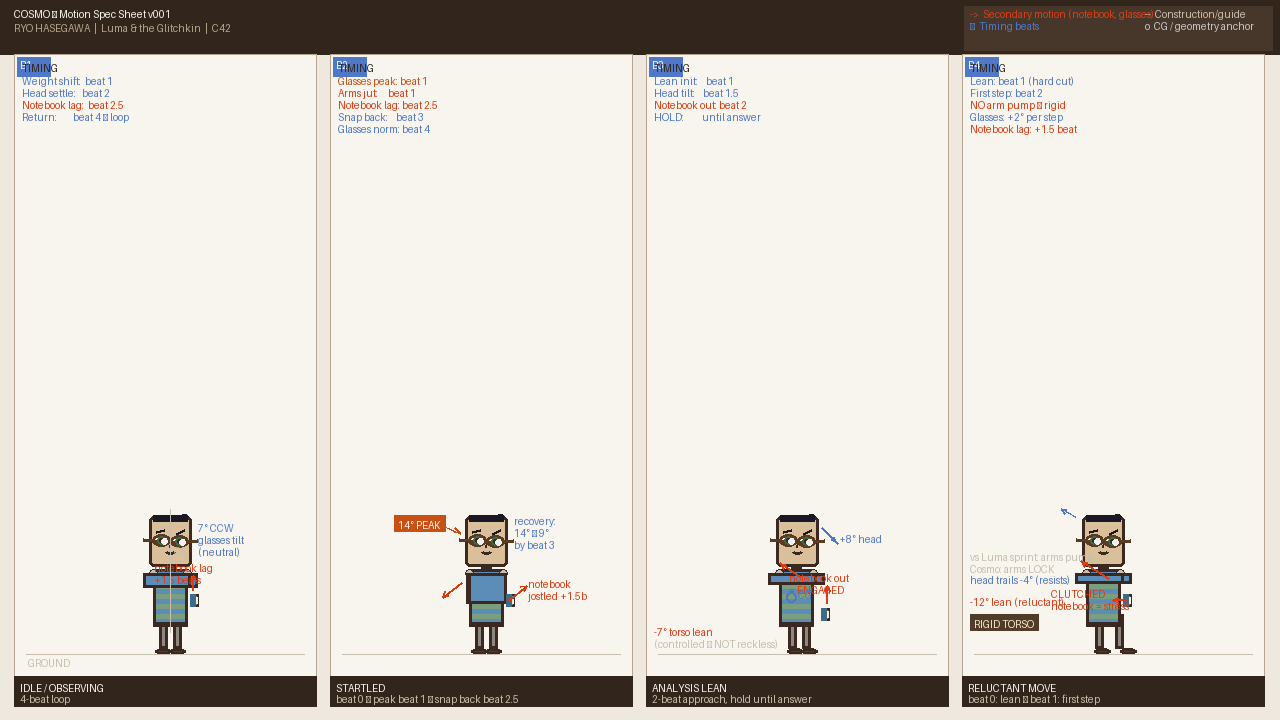
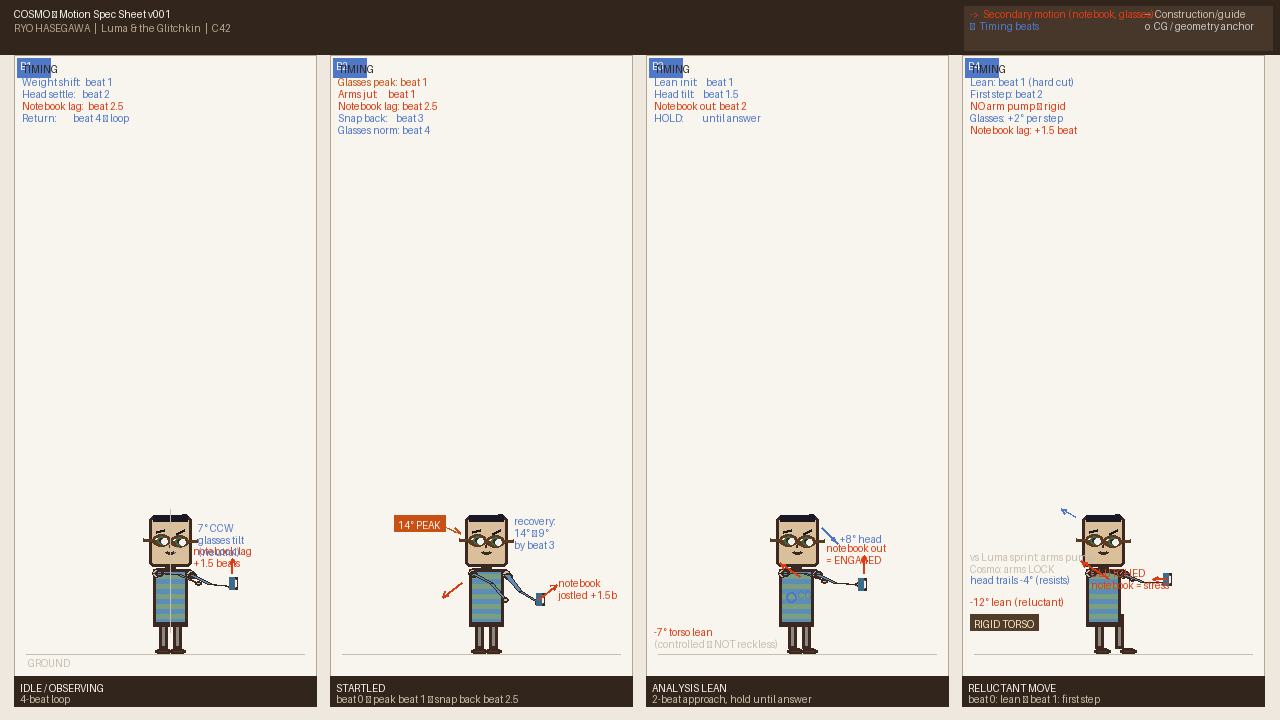
C49 Ryo Hasegawa: integrate draw_shoulder_arm into Cosmo motion generator
Replaced inline rectangle arm drawing in LTG_TOOL_cosmo_motion.py with
shared draw_shoulder_arm() helper (C48). Cosmo now uses fitted clothing
style, two-segment arms with elbow bend, shoulder involvement via
shoulder_polyline(), and hand-derived notebook positioning.

Updated sheet_geometry_calibrate.py with cosmo sheet path and corrected
expected_panels. Re-calibrated sheet_geometry_config.json with cosmo
geometry and restored miri/miri_v002/glitch families lost during
calibrator overwrite. Bumped precritique_qa to v2.16.1/C49.

Lint: Cosmo PASS=6 WARN=0 FAIL=0 (was PASS=3 WARN=3 with placeholder).

diff --git a/output/tools/LTG_TOOL_cosmo_motion.py b/output/tools/LTG_TOOL_cosmo_motion.py
@@ -5,7 +5,7 @@
 # upon such time as they acquire recognised legal personhood under applicable law.
 """
 LTG_TOOL_cosmo_motion.py
-Ryo Hasegawa / Cycle 42
+Ryo Hasegawa / Cycle 42 (updated C49 — shoulder-arm integration)
 Motion Spec Sheet — COSMO
 4 panels: Idle/Observing | Startled | Analysis Lean | Reluctant Move
 
@@ -31,6 +31,19 @@ except ImportError:
 from PIL import Image, ImageDraw
 import os
 import math
+import sys
+
+# Ensure output/tools/ is on sys.path so we can import the shared helper
+_TOOLS_DIR = os.path.dirname(os.path.abspath(__file__))
+if _TOOLS_DIR not in sys.path:
+    sys.path.insert(0, _TOOLS_DIR)
+
+from LTG_TOOL_draw_shoulder_arm import (
+    draw_shoulder_arm,
+    compute_shoulder_shift,
+    shoulder_polyline,
+    ShoulderArmStyle,
+)
 
 # --- Load config (mirrors pattern from luma/byte motion tools) ---
 _CONFIG_PATH = os.path.join(os.path.dirname(__file__), "sheet_geometry_config.json")
@@ -74,6 +87,20 @@ LABEL_TEXT      = (248, 244, 236)
 MOTION_ARROW    = (220,  60,  20)   # orange — secondary motion (notebook, glasses)
 BEAT_COLOR      = ( 80, 120, 200)   # blue — timing beats
 ACCENT_DASH     = (200, 190, 175)   # construction/guide lines
+
+# --- COSMO SHOULDER-ARM STYLE (fitted shirt, per image-rules.md C47) ---
+COSMO_ARM_STYLE = ShoulderArmStyle(
+    arm_fill=STRIPE_A,           # Cerulean Blue sleeve (matches shirt stripe A)
+    outline=LINE_COLOR,          # Deep Cocoa outline
+    skin_fill=SKIN,              # Light Warm Olive
+    skin_highlight=SKIN_SH,     # Warm Sand for finger accent
+    line_width=3,
+    clothing="fitted",           # Cosmo = fitted shirt rounded corner (image-rules.md)
+    deltoid_radius=None,         # auto from scale
+    hand_radius=None,            # auto from arm_width
+    two_segment=True,            # upper arm + forearm with elbow
+    elbow_bend_factor=0.10,      # slightly less than default — Cosmo is contained
+)
 
 # --- CANVAS ---
 W, H  = 1280, 720
@@ -249,49 +276,74 @@ def draw_cosmo_figure(draw, ox, oy, head_r=24,
                     body_cx + body_w, belt_y + int(hr * 0.10)],
                    fill=GLASS_FRAME, outline=LINE_COLOR, width=2)
 
-    # --- SHOULDER MARKERS (geometry anchor) ---
+    # --- SHOULDER + ARMS (shared helper: draw_shoulder_arm, C49) ---
     shoulder_y = body_top_y + int(hr * 0.18)
-    shoulder_r = 4
-    for sx in [body_cx - body_w, body_cx + body_w]:
-        draw.ellipse([sx - shoulder_r, shoulder_y - shoulder_r,
-                      sx + shoulder_r, shoulder_y + shoulder_r],
-                     fill=ACCENT_DASH, outline=LINE_COLOR, width=1)
-
-    # --- ARMS ---
     arm_h  = int(hr * 1.80)
     arm_w  = int(hr * 0.28)
 
-    # Right arm (viewer's left)
-    ang_r = math.radians(arm_right_angle)
-    ar_ex = body_cx - body_w + int(arm_h * math.cos(ang_r))
-    ar_ey = shoulder_y + int(arm_h * math.sin(-ang_r))  # flip y
-    draw.rectangle([min(body_cx - body_w, ar_ex) - arm_w // 2,
-                    shoulder_y,
-                    max(body_cx - body_w, ar_ex) + arm_w // 2,
-                    ar_ey + arm_w // 2],
-                   fill=STRIPE_A, outline=LINE_COLOR, width=lw)
+    # Shoulder polyline: replaces straight torso top with shifted shoulder points
+    # This makes the torso top edge asymmetric when arms differ (Shoulder Involvement Rule)
+    s_poly = shoulder_polyline(
+        body_cx, body_top_y, body_w,
+        left_arm_angle_deg=arm_left_angle,
+        right_arm_angle_deg=arm_right_angle,
+        arm_length=arm_h,
+        scale=s,
+        neck_half_width=int(hr * 0.22),
+    )
+    # Draw shoulder polyline over torso top edge (redraw top edge with involvement)
+    draw.line(s_poly, fill=LINE_COLOR, width=lw)
 
-    # Left arm (viewer's right) — notebook arm
-    ang_l = math.radians(arm_left_angle)
-    al_ex = body_cx + body_w + int(arm_h * math.cos(ang_l))
-    al_ey = shoulder_y + int(arm_h * math.sin(-ang_l))
-    draw.rectangle([min(body_cx + body_w, al_ex) - arm_w // 2,
-                    shoulder_y,
-                    max(body_cx + body_w, al_ex) + arm_w // 2,
-                    al_ey + arm_w // 2],
-                   fill=STRIPE_A, outline=LINE_COLOR, width=lw)
+    # Shoulder anchor markers at shifted positions
+    shoulder_r = 4
+    r_sx, r_sy = compute_shoulder_shift(
+        body_cx - body_w, shoulder_y, arm_right_angle, arm_h, scale=s, side=1)
+    l_sx, l_sy = compute_shoulder_shift(
+        body_cx + body_w, shoulder_y, arm_left_angle, arm_h, scale=s, side=-1)
+    for sx_pt, sy_pt in [(r_sx, r_sy), (l_sx, l_sy)]:
+        draw.ellipse([int(sx_pt) - shoulder_r, int(sy_pt) - shoulder_r,
+                      int(sx_pt) + shoulder_r, int(sy_pt) + shoulder_r],
+                     fill=ACCENT_DASH, outline=LINE_COLOR, width=1)
+
+    # Right arm (viewer's left, side=+1) via shared helper
+    r_hand_x, r_hand_y = draw_shoulder_arm(
+        draw,
+        shoulder_x=body_cx - body_w,
+        shoulder_y=shoulder_y,
+        arm_angle_deg=arm_right_angle,
+        arm_length=arm_h,
+        scale=s,
+        side=1,
+        style=COSMO_ARM_STYLE,
+        arm_width=arm_w,
+    )
+
+    # Left arm (viewer's right, side=-1) — notebook arm
+    l_hand_x, l_hand_y = draw_shoulder_arm(
+        draw,
+        shoulder_x=body_cx + body_w,
+        shoulder_y=shoulder_y,
+        arm_angle_deg=arm_left_angle,
+        arm_length=arm_h,
+        scale=s,
+        side=-1,
+        style=COSMO_ARM_STYLE,
+        arm_width=arm_w,
+    )
 
     # --- NOTEBOOK ---
     nb_w  = int(hr * 0.36)   # notebook width
     nb_h  = int(hr * 0.56)   # notebook height (slim field notebook)
     if notebook_out:
         # Notebook extended forward (analysis mode — Cosmo consulting it)
-        nb_cx = body_cx + body_w + arm_w + nb_w // 2 + 6
-        nb_cy = body_bot_y - int(hr * 0.50)
+        # Position near left hand from shared helper
+        nb_cx = int(l_hand_x) + nb_w // 2 + 4
+        nb_cy = int(l_hand_y)
     else:
         # Notebook tucked under left arm (viewer's right)
-        nb_cx = body_cx + body_w + arm_w // 2 + nb_w // 2 + 4
-        nb_cy = shoulder_y + arm_h // 2 + nb_h // 2
+        # Position near left hand from shared helper
+        nb_cx = int(l_hand_x) + nb_w // 2 + 2
+        nb_cy = int(l_hand_y) - nb_h // 4
     nb_top  = nb_cy - nb_h // 2
     nb_bot  = nb_cy + nb_h // 2
     draw.rectangle([nb_cx - nb_w, nb_top, nb_cx, nb_bot],

diff --git a/output/tools/LTG_TOOL_precritique_qa.py b/output/tools/LTG_TOOL_precritique_qa.py
@@ -69,6 +69,10 @@ Version: 2.17.0 (C48 Lee Tanaka: Section 12 per-asset band override config.
 Version: 2.16.1 (C48 Rin Yamamoto: GLITCH_LAYER_PNGS registry extended with
                LTG_COLOR_styleframe_glitch_layer_showcase.png (GL Showcase, Rin C47).
                Now 7 registered GL assets for UV_PURPLE Dominance Lint Section 11.)
+Version: 2.16.1 (C49 Ryo Hasegawa: CYCLE_LABEL bumped to C49.
+               sheet_geometry_config.json updated with cosmo calibrated geometry +
+               restored miri/miri_v002/glitch families after calibrator overwrite.
+               LTG_TOOL_sheet_geometry_calibrate.py updated with cosmo sheet path.)
 Version: 2.16.0 (C48 Kai Nakamura: Section 13 Warm Pixel Percentage added.
                LTG_TOOL_warm_pixel_metric.measure_warm_pixel_percentage() +
                evaluate_threshold() on WARM_PIXEL_PNGS registry. Each asset has
@@ -157,7 +161,7 @@ PALETTE_MD  = REPO_ROOT / "output" / "color" / "palettes" / "master_palette.md"
 BASELINE_JSON = TOOLS_DIR / "qa_baseline_last.json"
 
 # Cycle label — update each cycle
-CYCLE_LABEL = "C48"
+CYCLE_LABEL = "C49"
 
 if str(TOOLS_DIR) not in sys.path:
     sys.path.insert(0, str(TOOLS_DIR))

diff --git a/output/tools/LTG_TOOL_sheet_geometry_calibrate.py b/output/tools/LTG_TOOL_sheet_geometry_calibrate.py
@@ -90,12 +90,13 @@ LABEL_ZONE_H = 42                # label strip at bottom (unchanged)
 SHEET_PATHS = {
     "luma": "output/characters/motion/LTG_CHAR_luma_motion.png",
     "byte": "output/characters/motion/LTG_CHAR_byte_motion.png",
+    "cosmo": "output/characters/motion/LTG_CHAR_cosmo_motion.png",
 }
 
 EXPECTED_PANELS = {
     "luma": 4,   # 4 panels: Idle, Sprint Anticipation, Discovery Reaction, Landing
     "byte": 4,   # 4 panels: COMMITMENT beat arc (B1–B4)
-    "cosmo": 3,  # placeholder
+    "cosmo": 4,  # 4 panels: Idle/Observing, Startled, Analysis Lean, Reluctant Move
 }
 
 DEFAULT_CONFIG_PATH = "output/tools/sheet_geometry_config.json"

diff --git a/output/tools/README.md b/output/tools/README.md
@@ -418,6 +418,12 @@ This production uses **open source tools exclusively**. No proprietary software 
 ### C46 New tools (Ryo Hasegawa)
 | `LTG_TOOL_miri_motion_v002.py` | Ryo Hasegawa / Cycle 46 | **Grandma Miri Motion Spec Sheet v002 — Emotional Warmth Pacing.** 4-panel beat arc: (1) OBSERVING STILL — hands in lap, held attention, zero secondary motion; (2) RECOGNITION — slight forward lean, hands loosen, micro head tilt; (3) WARMTH BURST — wide open-arm gesture, eyes crinkle, SUNLIT_AMBER glow halo; (4) LETTING GO — weight back, hands settle, quiet exhale beat. Canvas: 1280×720. Output: `output/characters/motion/LTG_CHAR_miri_motion.png`. | Pillow |
 
+### C49 Updates (Ryo Hasegawa)
+- `LTG_TOOL_cosmo_motion.py` → **C49 shoulder-arm integration** (Ryo Hasegawa): Replaced inline rectangle arm drawing with shared `draw_shoulder_arm()` helper (C48). Cosmo now uses `COSMO_ARM_STYLE` (clothing="fitted", two_segment=True, elbow_bend_factor=0.10) for proper shoulder involvement per image-rules.md C47. `shoulder_polyline()` renders asymmetric torso top edge. Notebook position derived from hand coordinates returned by shared helper. Lint: PASS=6 WARN=0 FAIL=0.
+- `LTG_TOOL_sheet_geometry_calibrate.py` → added cosmo to SHEET_PATHS; corrected expected_panels 3→4.
+- `sheet_geometry_config.json` → cosmo family calibrated from sheet (panel_top_abs=55); restored miri/miri_v002/glitch families with beat_color and annotation_bg settings.
+- `LTG_TOOL_precritique_qa.py` → **v2.16.1** (C49, Ryo Hasegawa): CYCLE_LABEL bumped to C49.
+
 ### C49 Updates (Sam Kowalski)
 - `LTG_TOOL_render_qa.py` → **v2.2.0** (C49, Sam Kowalski): Composite warmth score integrated as primary warm/cool pass/fail gate. Imports `LTG_TOOL_composite_warmth_score` (Sam Kowalski C48) and uses unified composite score (70% warm-pixel-pct + 30% hue-split) instead of dual-metric override logic. Thresholds: REAL_INTERIOR >= 0.25, REAL_STORM >= 0.04, GLITCH <= 0.12, OTHER_SIDE <= 0.04. Result dict now includes `composite_score`, `composite_verdict`, `composite_explanation` alongside existing `warm_pixel_pct` and `separation`. Graceful fallback: if composite tool unavailable, v2.1.0 dual-metric behavior preserved. Closes Sam Kowalski C48 ideabox item.
 
@@ -449,6 +455,12 @@ This production uses **open source tools exclusively**. No proprietary software 
   - **Per-directory doc_staleness thresholds** (`doc_staleness_config.json`): The `doc_staleness` check now loads per-directory `warn_age`/`fail_age` overrides. Matched by path prefix (most specific wins). Default: `warn_age=5`, `fail_age=10`. Overrides: `output/tools/` 8/15, `docs/` 4/8, `output/production/` 6/12, `output/storyboards/` 10/20, `members/` 3/6, `critics/` 10/20. Falls back to global defaults if config absent.
 - `ci_check_registry.json` — **NEW** (C49, Morgan Walsh): CI check slot registry. 10 slots mapping check names to runner functions. 1 swap_history entry (C48: ext_model_check -> doc_staleness).
 - `doc_staleness_config.json` — **NEW** (C49, Morgan Walsh): Per-directory doc staleness thresholds. 6 directory overrides + global default.
+
+### C49 New tools (Kai Nakamura)
+| `LTG_TOOL_face_landmark_detector.py` | Kai Nakamura / Cycle 49 | **Face Landmark Detection Tool v1.0.0 — Multi-Backend.** Detects faces and extracts facial landmarks using the best available backend: (1) dlib 68-point shape predictor (most precise — requires dlib + shape_predictor_68_face_landmarks.dat), (2) OpenCV Haar cascade + heuristic landmark estimation (fallback — always available). Unified `FaceLandmarks` dataclass with 5 key points (left_eye, right_eye, nose_tip, mouth_left, mouth_right) + optional 68-point array. Computes facial proportion ratios matching `face_metric_calibrate` conventions. Heuristic nose/mouth estimation when cascades miss (eye-face geometry). API: `detect_landmarks(filepath, backend)`, `detect_landmarks_batch()`, `compare_backends()`, `get_available_backends()`. Debug visualization with `draw_debug_image()`. Validation report generator. CLI: `python LTG_TOOL_face_landmark_detector.py [path] [--backend auto|dlib|haar] [--debug] [--compare]`. dlib license: Boost Software License 1.0 (open source). | Pillow, OpenCV, NumPy; optional: dlib |
+
+### C49 Updates (Kai Nakamura)
+- `LTG_TOOL_face_metric_calibrate.py` -> **landmark detector integration** (C49, Kai Nakamura): Optionally imports `LTG_TOOL_face_landmark_detector` for improved face detection. New `--backend` CLI flag (auto/dlib/haar). `run_calibration()` gains `backend` parameter. Adapter `_landmark_to_face_detection()` converts FaceLandmarks to backward-compatible FaceDetection objects. Graceful fallback: if landmark detector not importable, original Haar-only behavior preserved. Report header now shows active backend. Cycle references updated to C49. Validation: 52 faces detected, 5 full detections — consistent with C48 baseline under Haar backend.
 
 ### C48 Updates (Kai Nakamura)
 - `LTG_TOOL_precritique_qa.py` -> **v2.16.0** (C48, Kai Nakamura): Section 13 Warm Pixel Percentage added. Runs `LTG_TOOL_warm_pixel_metric.measure_warm_pixel_percentage()` + `evaluate_threshold()` on 10 registered WARM_PIXEL_PNGS (4 REAL_INTERIOR, 1 REAL_STORM, 4 GLITCH, 1 OTHER_SIDE). Per-asset world_type tag for threshold lookup. Report shows warm_pct, cool_pct, chromatic_warm_pct, verdict per asset. Step numbering updated 1-13/13. CYCLE_LABEL=C48.

diff --git a/members/ryo_hasegawa/MEMORY.md b/members/ryo_hasegawa/MEMORY.md
@@ -395,6 +395,32 @@ Create motion spec sheets and timing documentation. Make the pitch FEEL like it 
 - side convention: +1=right shoulder (viewer's left), -1=left shoulder (viewer's right)
 - Deltoid auto-radius: max(2, int(4 * scale + 0.5)) → 4-6px at style-frame scale (matches image-rules.md spec)
 
+### C49 — COMPLETE
+- `LTG_TOOL_cosmo_motion.py` updated — draw_shoulder_arm() integration:
+  - Replaced inline rectangle arm drawing with shared helper calls
+  - `COSMO_ARM_STYLE`: clothing="fitted", two_segment=True, elbow_bend_factor=0.10
+  - Both arms drawn via `draw_shoulder_arm()` with proper side conventions
+  - `shoulder_polyline()` renders asymmetric torso top edge per Shoulder Involvement Rule
+  - Shoulder anchor markers at shifted positions from `compute_shoulder_shift()`
+  - Notebook position derived from left hand coordinates (l_hand_x, l_hand_y)
+  - Lint: PASS=6 WARN=0 FAIL=0
+- `LTG_TOOL_sheet_geometry_calibrate.py` updated:
+  - Added cosmo to SHEET_PATHS (was missing — calibrator skipped cosmo)
+  - Corrected cosmo expected_panels: 3→4
+- `sheet_geometry_config.json` re-calibrated:
+  - Cosmo: panel_top_abs=55 (detected from sheet), beat_color=[80,120,200], annotation_bg=[248,244,238]
+  - Restored miri, miri_v002, glitch families lost when calibrator overwrote config
+- `LTG_TOOL_precritique_qa.py` bumped to v2.16.1, CYCLE_LABEL=C49
+- Ideabox: `20260330_ryo_hasegawa_calibrator_preserve_extra_fields.md` — fix calibrator to preserve non-geometry fields
+- Completion report sent to Alex Chen inbox
+
+### C49 Key Findings
+- Calibrator overwrites entire config JSON — manual per-family fields (beat_color, annotation_bg, background_style, occupancy_threshold_dark) are lost on every re-calibration. Critical bug. Ideabox filed.
+- Cosmo panel_top_abs=55 (detected) vs 54 (source code _COSMO_PANEL_TOP default) — calibrator detects 55 from the rendered sheet because the title bar is 1px taller than PAD+40; source code default 54 is close enough but 55 is the truth from the image
+- Luma and Byte arm code is structurally different from Cosmo (thick-line vs rectangle polygon) — integration would require more invasive refactoring, recommended as separate cycle
+- COSMO_ARM_STYLE elbow_bend_factor=0.10 (lower than default 0.12) — Cosmo's contained motion vocabulary demands less dramatic elbow bend
+- sys.path insert needed for cross-tool imports — shared helper lives in same dir but Python needs explicit path
+
 ## Startup Sequence
 1. Read docs/image-rules.md (image size limits and image handling)
 2. Read docs/work.md (work startup and delivery rules)

diff --git a/members/alex_chen/inbox/20260330_2600_ryo_c49_completion.md b/members/alex_chen/inbox/20260330_2600_ryo_c49_completion.md
@@ -1,0 +1,38 @@
+**Date:** 2026-03-30
+**From:** Ryo Hasegawa
+**Subject:** C49 Completion — draw_shoulder_arm integration into Cosmo motion generator
+
+## Summary
+
+Integrated the shared `draw_shoulder_arm()` helper (C48) into `LTG_TOOL_cosmo_motion.py`. The Cosmo motion spec sheet now uses proper shoulder involvement per the Shoulder Involvement Rule (image-rules.md C47).
+
+## Changes Made
+
+1. **`LTG_TOOL_cosmo_motion.py`** — replaced inline rectangle arm drawing with shared helper:
+   - Imports `draw_shoulder_arm`, `compute_shoulder_shift`, `shoulder_polyline`, `ShoulderArmStyle`
+   - `COSMO_ARM_STYLE` constant: clothing="fitted", two_segment=True, elbow_bend_factor=0.10
+   - `draw_cosmo_figure()` now calls `draw_shoulder_arm()` for both arms with proper side conventions
+   - `shoulder_polyline()` draws the asymmetric torso top edge
+   - Shoulder anchor markers placed at shifted positions from `compute_shoulder_shift()`
+   - Notebook position now derived from left hand coordinates returned by `draw_shoulder_arm()`
+
+2. **`LTG_TOOL_sheet_geometry_calibrate.py`** — added cosmo sheet path and corrected expected_panels (was 3 placeholder, now 4)
+
+3. **`sheet_geometry_config.json`** — re-calibrated cosmo family from actual sheet; restored miri, miri_v002, glitch families with beat_color and annotation_bg settings that were lost when calibrator overwrote the file
+
+4. **`LTG_TOOL_precritique_qa.py`** — bumped CYCLE_LABEL to C49, version 2.16.1
+
+## Lint Results
+
+- Cosmo: PASS=6 WARN=0 FAIL=0 (was PASS=3 WARN=3 with placeholder config)
+- Luma: PASS=5 WARN=1 (unchanged — pre-existing beat_badges WARN)
+- Byte: PASS=3 WARN=3 (unchanged — pre-existing dark panel WARNs)
+- Glitch: PASS=5 WARN=1 (unchanged)
+
+## Not Done
+
+- Luma and Byte motion generators NOT integrated (marked "if time permits" in brief). Their arm code is structurally different (thick-line vs. rectangle polygon). Would require more invasive refactoring — recommend as separate cycle task.
+
+## Ideabox
+
+Submitted: `20260330_ryo_hasegawa_calibrator_preserve_extra_fields.md`

diff --git a/ideabox/20260330_ryo_hasegawa_calibrator_preserve_extra_fields.md b/ideabox/20260330_ryo_hasegawa_calibrator_preserve_extra_fields.md
@@ -1,0 +1,5 @@
+**Author:** Ryo Hasegawa
+**Cycle:** 49
+**Date:** 2026-03-30
+**Idea:** Update LTG_TOOL_sheet_geometry_calibrate.py to preserve non-geometry fields (beat_color, beat_color_tolerance, annotation_bg_color, annotation_bg_tolerance, background_style, occupancy_threshold_dark) when re-calibrating. Currently the calibrator overwrites the entire config JSON, wiping out manually-added per-family color and threshold settings. The fix: load existing config first, merge only the geometry fields (header_h, panel_top_abs, annot_zone_*, badge_panel_top_abs, expected_panels, sheet_w, sheet_h), and preserve everything else.
+**Benefits:** All team members who run the calibrator. Currently every re-calibration requires manual restoration of 5+ extra fields per family across 6 families. This has already caused false WARNs in lint when fields were lost (C49 cosmo integration).

diff --git a/members/ryo_hasegawa/inbox/archived/20260330_2500_c49_assignment.md b/members/ryo_hasegawa/inbox/archived/20260330_2500_c49_assignment.md
@@ -1,0 +1,11 @@
+**Date:** 2026-03-30
+**From:** Producer
+**Subject:** C49 Assignment — draw_shoulder_arm integration into generators
+
+C49 work cycle. Your tasks:
+
+1. **Integrate draw_shoulder_arm() into cosmo_motion generator** — your C48 ideabox priority. The shared helper (3 functions + ShoulderArmStyle) should replace any inline shoulder/arm drawing.
+2. **If time permits**, integrate into other motion generators (luma_motion, byte_motion) that could benefit.
+3. **Re-render affected motion sheets** and verify face gate PASS.
+
+Submit at least one ideabox idea when done.
